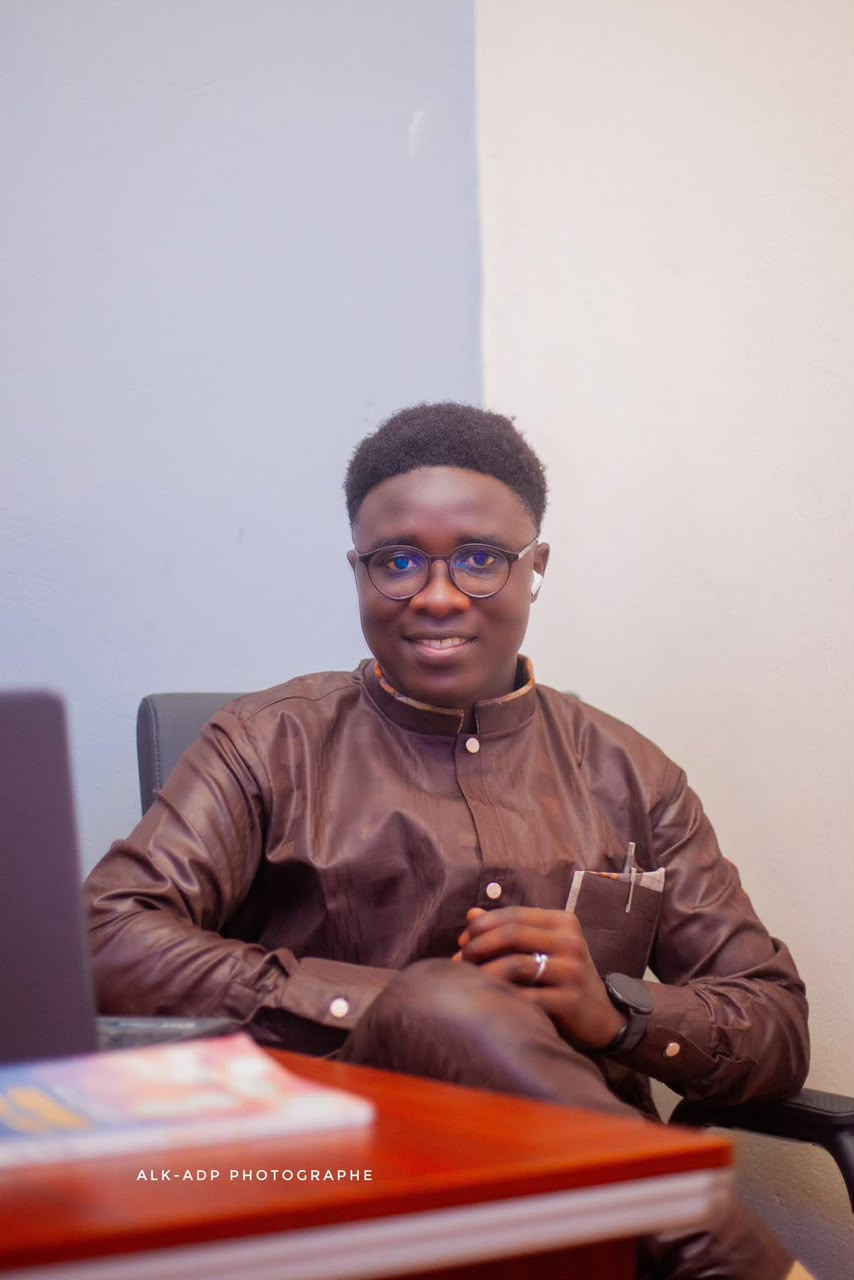
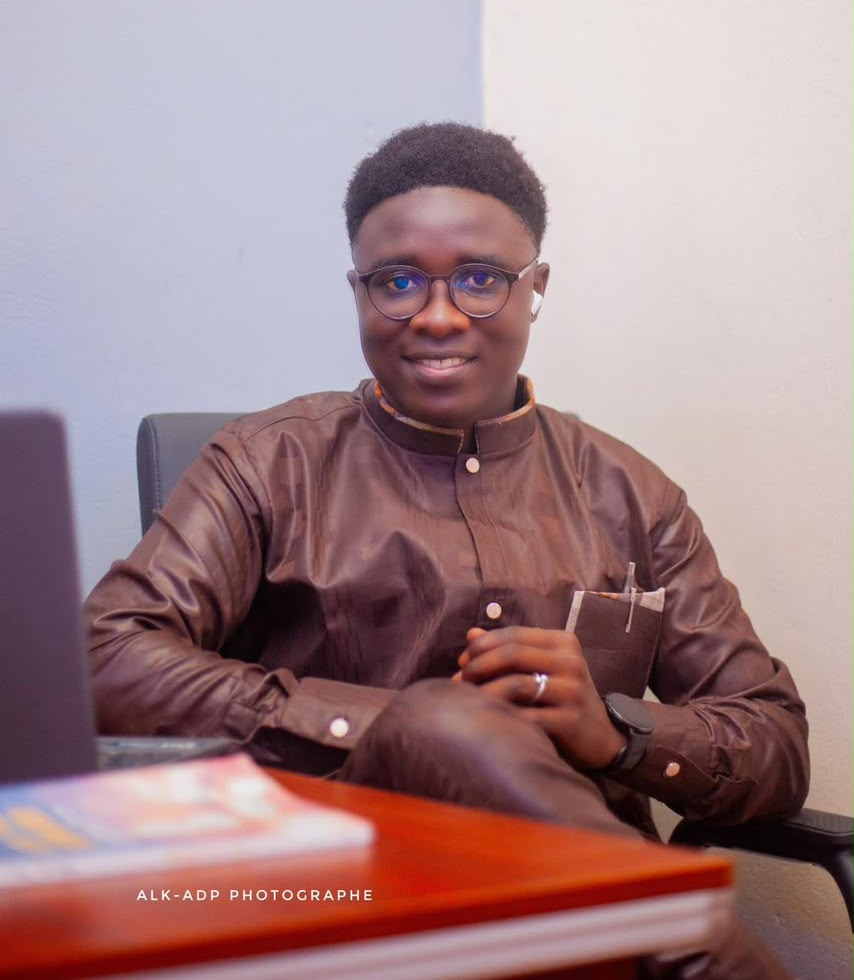
fix(team): ajustement du cadrage portrait et du centrage pour Mr Mouhamed Abdalah SALL

diff --git a/index.html b/index.html
@@ -549,7 +549,7 @@
           <!-- Carte 1 : Directeur Général -->
           <div class="team-card highlight-card">
             <div class="team-photo-wrapper">
-              <img src="assets/mouhamed-abdalah-sall.jpeg" alt="Mr Mouhamed Abdalah SALL" class="team-photo">
+              <img src="assets/mouhamed-abdalah-sall.jpeg" alt="Mr Mouhamed Abdalah SALL" class="team-photo photo-sall">
               <span class="team-badge badge-primary" data-i18n="s11_m1_badge">Direction</span>
             </div>
             <div class="team-content">
@@ -569,7 +569,7 @@
           <!-- Carte 2 : CTO -->
           <div class="team-card highlight-card">
             <div class="team-photo-wrapper">
-              <img src="assets/mouhamadou-sarr.jpg" alt="Mouhamadou SARR" class="team-photo">
+              <img src="assets/mouhamadou-sarr.jpg" alt="Mouhamadou SARR" class="team-photo photo-sarr">
               <span class="team-badge badge-accent" data-i18n="s11_m2_badge">Technologie</span>
             </div>
             <div class="team-content">
@@ -589,7 +589,7 @@
           <!-- Carte 3 : Responsable Commerciale -->
           <div class="team-card">
             <div class="team-photo-wrapper">
-              <img src="assets/maty-diop.jpeg" alt="Maty DIOP" class="team-photo">
+              <img src="assets/maty-diop.jpeg" alt="Maty DIOP" class="team-photo photo-diop">
               <span class="team-badge badge-secondary" data-i18n="s11_m3_badge">Impact & Terrain</span>
             </div>
             <div class="team-content">
@@ -609,7 +609,7 @@
           <!-- Carte 4 : DevOps & Infrastructure -->
           <div class="team-card">
             <div class="team-photo-wrapper">
-              <img src="assets/el-hadji-malick-diouf.jpeg" alt="El Hadji Malick DIOUF" class="team-photo">
+              <img src="assets/el-hadji-malick-diouf.jpeg" alt="El Hadji Malick DIOUF" class="team-photo photo-diouf">
               <span class="team-badge badge-teal" data-i18n="s11_m4_badge">Infrastructure</span>
             </div>
             <div class="team-content">

diff --git a/style.css b/style.css
@@ -1111,7 +1111,7 @@ body {
 .team-photo-wrapper {
   position: relative;
   width: 100%;
-  height: 250px;
+  height: 260px;
   overflow: hidden;
   background: linear-gradient(180deg, rgba(43, 153, 199, 0.08) 0%, rgba(17, 35, 56, 0.25) 100%);
 }
@@ -1123,6 +1123,23 @@ body {
   object-position: center top;
   transition: transform 0.6s cubic-bezier(0.16, 1, 0.3, 1);
   display: block;
+}
+
+/* Cadrages individuels sur-mesure */
+.team-photo.photo-sall {
+  object-position: center 20%;
+}
+
+.team-photo.photo-sarr {
+  object-position: center 16%;
+}
+
+.team-photo.photo-diop {
+  object-position: center 12%;
+}
+
+.team-photo.photo-diouf {
+  object-position: center 20%;
 }
 
 .team-card:hover .team-photo {
